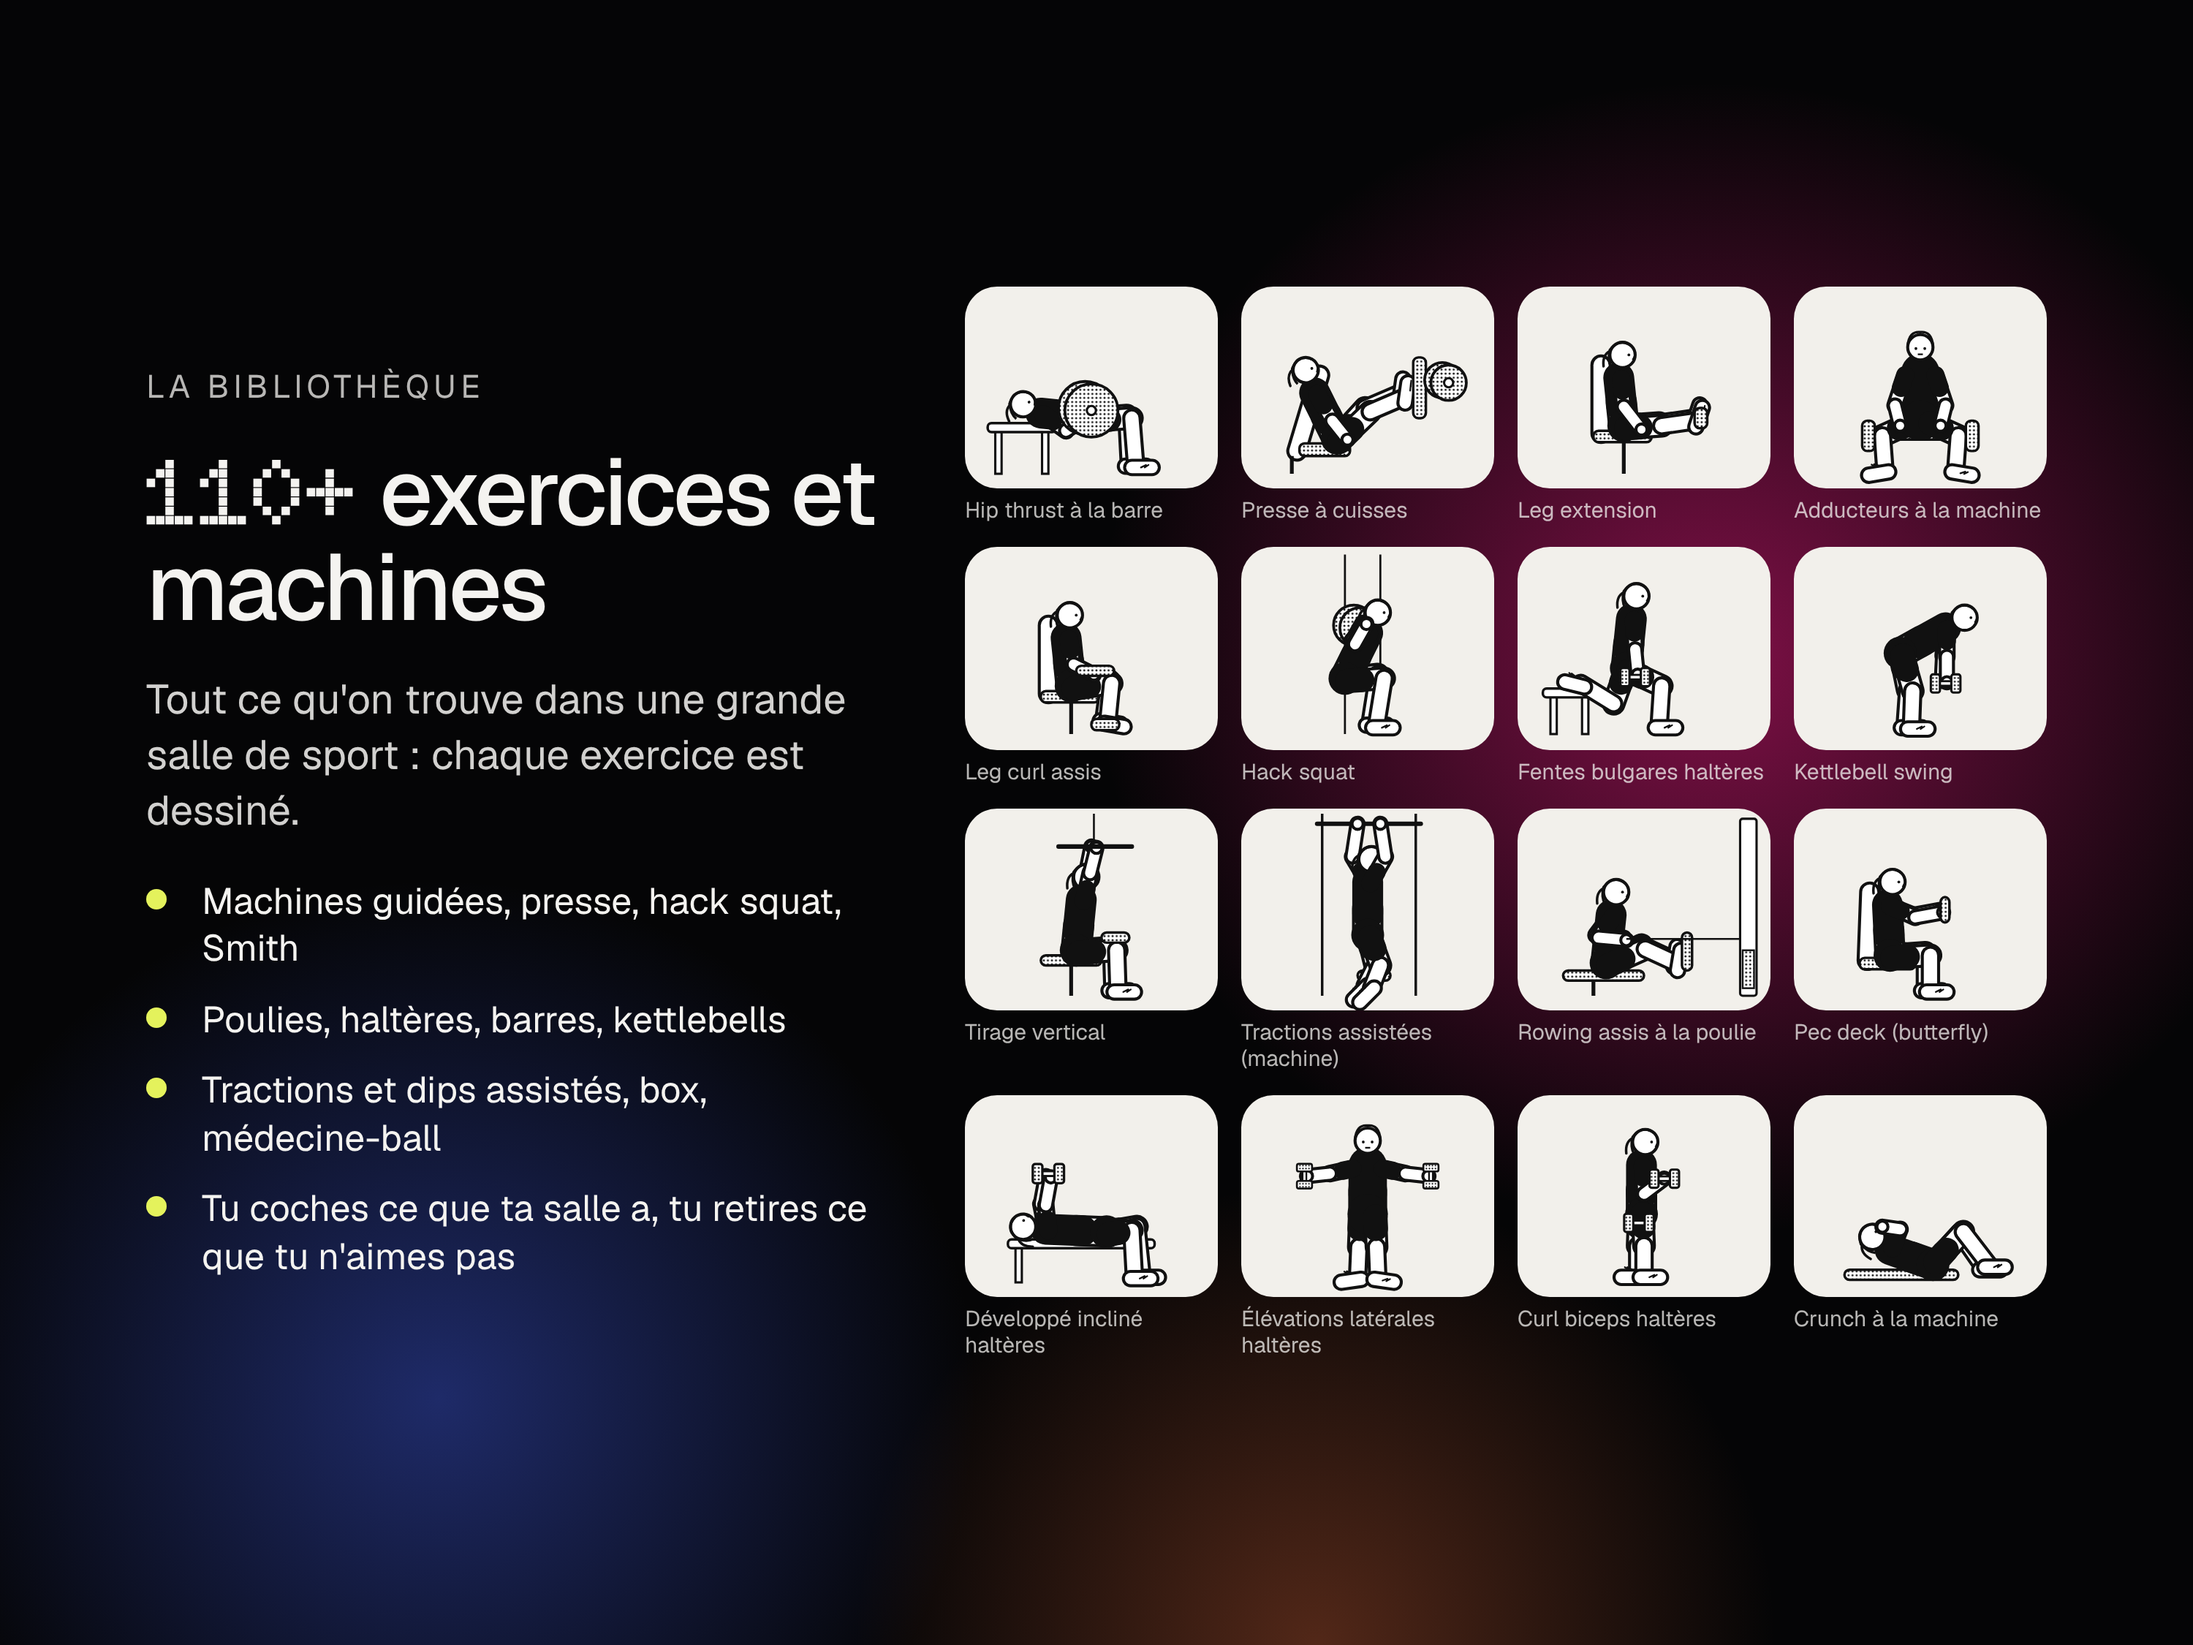
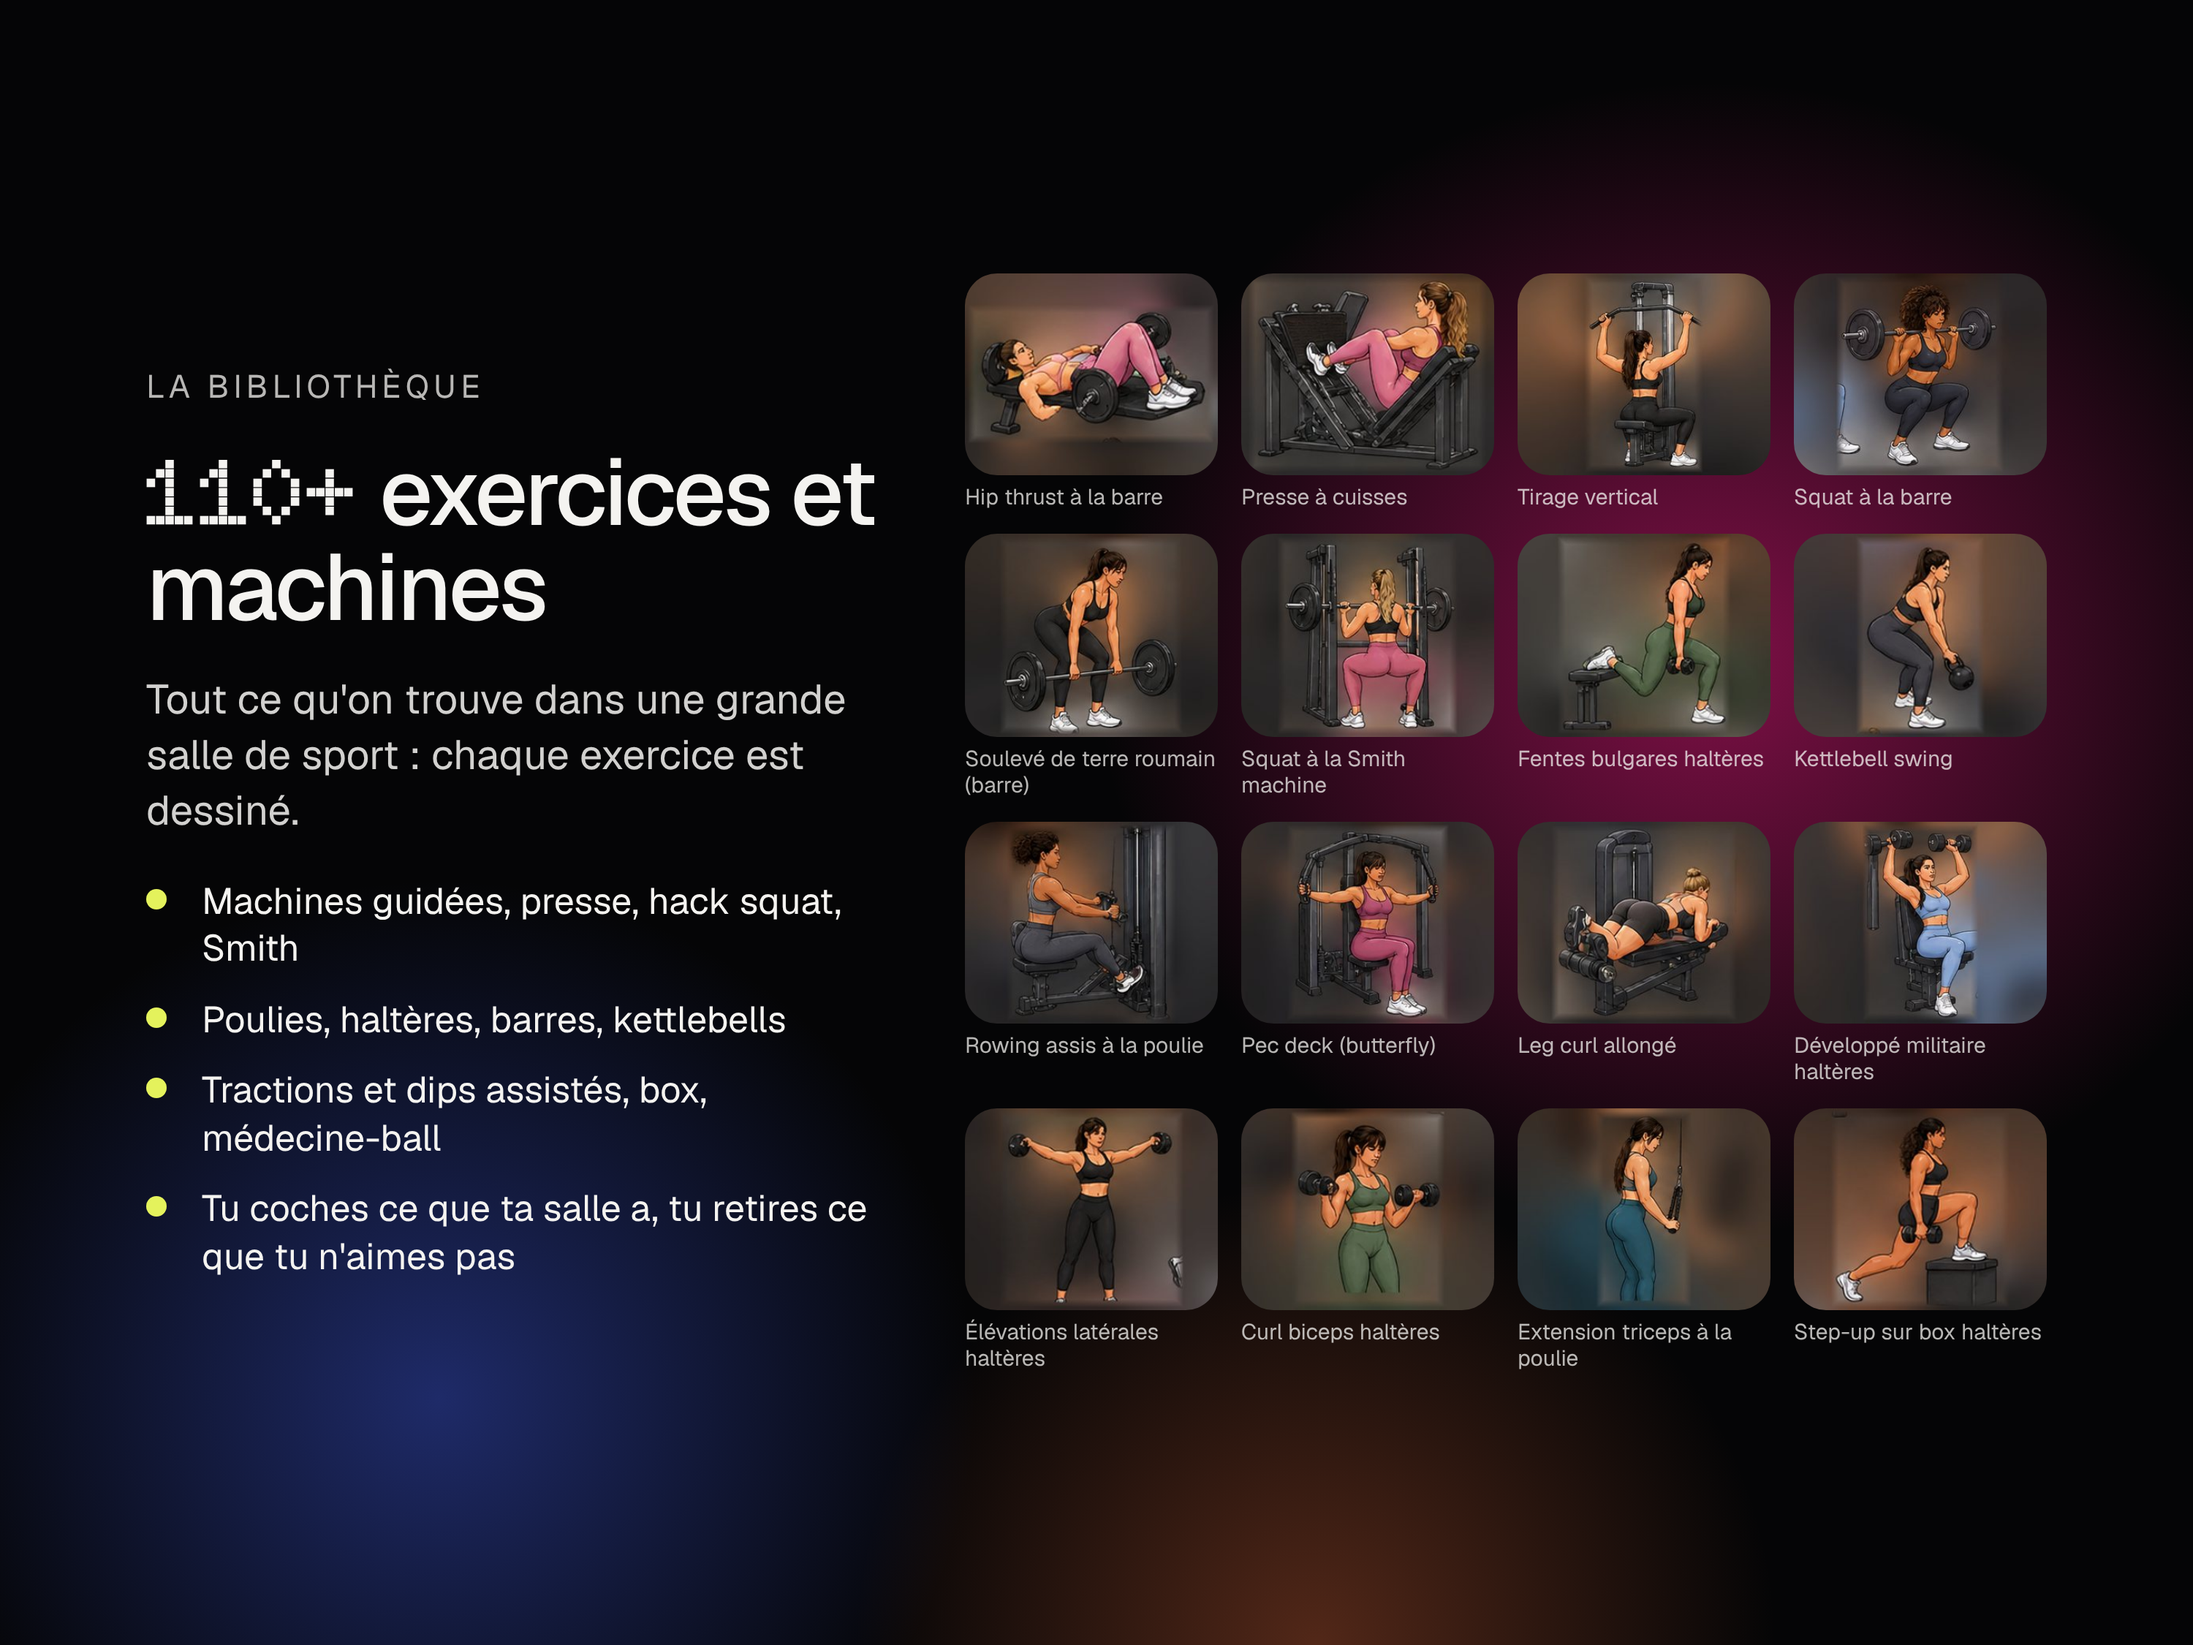
Phase Gym : dessins en couleur pour une cinquantaine d'exercices
40 illustrations découpées dans la planche fournie (docs/phase/ex/), reliées
aux versions d'exercices et au cardio correspondants ; les autres gardent le
dessin au trait. Images Etsy refaites, fiche mise à jour (illustrations IA).

Claude-Session: https://claude.ai/code/session_01Gm98Y9s8ifhqooa8DeYAiv

Changed region(s): [[0.434, 0.1556, 0.961, 0.84]]

diff --git a/docs/phase/app.js b/docs/phase/app.js
@@ -539,7 +539,26 @@ const POSES = {
     arms:[[[88,60],[80,80],[90,94]], [[112,60],[120,80],[110,94]]], front:band([84,124],[116,124])})
 };
 const illCache = {};
-function illustration(ill){
+/* Dessins en couleur (dossier ex/) pour les versions d'exercices qui en ont un ; les autres gardent le dessin au trait. */
+const SPRITES = {
+  "Tirage vertical":"tirage", "Tirage vertical à la machine guidée":"tirage2", "Tractions assistées (machine)":"traction",
+  "Presse à cuisses":"presse", "Presse à cuisses guidée (à charge sélective)":"presse", "Mollets à la presse":"presse",
+  "Rowing assis à la poulie":"rowmachine", "Rowing assis à la machine guidée":"rowmachine", "Rowing haltère un bras":"row1", "Rowing haltères buste penché":"rowbanc",
+  "Kickback à la poulie":"kickcable", "Kickback à la Smith machine (pied sur la barre)":"kickmachine", "Kickback au sol avec élastique":"kickfloor",
+  "Développé couché à la machine":"pecdeck", "Développé incliné à la machine":"pecdeck", "Pec deck (butterfly)":"fly",
+  "Leg curl allongé":"legcurl", "Développé militaire haltères":"ohpseat", "Développé Arnold haltères":"ohpseat",
+  "Squat à la barre":"squatbarre", "Squat à la Smith machine":"smithsquat", "Soulevé de terre roumain (barre)":"rdl",
+  "Fentes marchées haltères":"fente", "Fentes arrière haltères":"fente", "Fentes arrière kettlebell":"fente", "Fentes bulgares haltères":"bulgare",
+  "Extension triceps à la poulie":"triceps", "Pull-over à la poulie haute (bras tendus)":"pullover",
+  "Curl biceps haltères":"curl2", "Curl marteau haltères":"curl", "Élévations latérales haltères":"latraise", "Face pull à la poulie":"facepull",
+  "Planche sur les avant-bras":"planche", "Hip thrust à la barre":"hipthrust", "Kettlebell swing":"kbswing", "Swing haltère":"kbswing",
+  "Squat sumo kettlebell":"kbsumo", "Squat sumo haltère":"kbsumo", "Extension lombaire au banc à 45°":"lombaires", "Extension au banc à 45° avec disque":"lombaires",
+  "Step-up sur box haltères":"stepup", "Step-up sur box (poids du corps)":"stepup", "Dips entre deux bancs":"dipsbanc",
+  "Crunch au sol":"crunch", "Pompes (sur un banc si besoin)":"pompes", "Mountain climbers":"pompes", "Russian twist (médecine-ball)":"twist",
+  "Vélo droit":"velo", "Biking virtuel":"velo", "Rameur":"rameur", "Tapis de course":"tapis", "Tapis incliné (marche)":"tapis", "Battle ropes":"battle"
+};
+function illustration(ill, name){
+  if (name && SPRITES[name]) return `<img src="ex/${SPRITES[name]}.jpg" alt="" loading="lazy" decoding="async">`;
   if (!ill) return "";
   const key = ill.join("|"); if (illCache[key]) return illCache[key];
   const fn = POSES[ill[0]]; if (!fn) return "";
@@ -1064,7 +1083,7 @@ function viewToday(){
    On choisit ses exercices (bibliothèque, exos déjà faits, ou un nom libre), on note les séries, et la séance
    rejoint l'historique et la progression des charges, comme une séance proposée par l'app. Le brouillon est
    gardé dans S.logDraft : on peut quitter l'app au milieu et reprendre. */
-const CARDIO = ["Tapis de course","Tapis incliné (marche)","Vélo droit","Vélo semi-allongé","Rameur","Elliptique","Escalier (stair climber)","Ascent trainer","Corde à sauter","Biking virtuel","Cours collectif"];
+const CARDIO = ["Tapis de course","Tapis incliné (marche)","Vélo droit","Vélo semi-allongé","Rameur","Elliptique","Escalier (stair climber)","Ascent trainer","Corde à sauter","Battle ropes","Biking virtuel","Cours collectif"];
 const ZONE_FILTERS = [["all","Tout"],["mine","Mes exos"],["fessiers","Fessiers"],["jambes","Jambes"],["dos","Dos"],["pecs","Pectoraux"],["epaules","Épaules"],["bras","Bras"],["abdos","Abdos"],["cardio","Cardio"]];
 function variantInfo(name){
   for (const [id,L] of Object.entries(LIB)) { const v = L.v.find(x=>x.n===name); if (v) return {id, v, z:L.z, timed:!!L.timed}; }
@@ -1116,7 +1135,7 @@ function viewLog(){
     ${ci && !S.profile.hormonal ? `<div class="row">${phaseChip(ci,false)}</div>` : ""}</div>`;
   if (!d.items.length) h += `<div class="card"><p class="muted small">Ajoute les exercices que tu as faits : dans la liste de l'app, parmi ceux que tu fais d'habitude, ou avec un nom à toi. Pour chacun, note tes séries (charge et répétitions).</p></div>`;
   d.items.forEach((it,i)=>{
-    const img = it.ill ? illustration(it.ill) : "";
+    const img = illustration(it.ill, it.name);
     h += `<div class="card" style="gap:12px"><div class="ex-head ${img?"":"noimg"}" style="${img?"":"grid-template-columns:minmax(0,1fr)"}">${img?`<div class="ill">${img}</div>`:""}<div class="stack" style="gap:4px;min-width:0"><div class="name" style="font-weight:500">${esc(it.name)}</div>
       <div class="detail note">${it.cardio?"Cardio":it.timed?"Gainage : durée en secondes":it.w?"kg "+esc(loadLabel(it.eq)||"de charge"):"Poids du corps"}</div>
       <div class="row" style="gap:6px">${i>0?`<button class="linkbtn" data-act="log-up" data-v="${i}">Monter</button>`:""}<button class="linkbtn" data-act="log-del" data-v="${i}" style="color:#E5484D">Retirer</button></div></div></div>`;
@@ -1165,7 +1184,7 @@ function pickerResults(){
   let h = "";
   if (q) h += `<button class="pill block" data-act="log-add-custom"><span>Ajouter « ${esc(ui.logQ.trim())} »</span><span class="plus">${PLUS}</span></button>`;
   h += `<div class="card" style="padding:6px 20px">`;
-  h += list.length ? list.map(o=>{ const img = o.inf ? illustration(o.inf.v.ill) : "", has = inDraft.has(o.n);
+  h += list.length ? list.map(o=>{ const img = illustration(o.inf?.v.ill, o.n), has = inDraft.has(o.n);
       return `<button class="pickrow" data-act="log-add" data-v="${esc(o.n)}" data-kind="${o.kind||""}" ${has?'aria-pressed="true"':""}>${img?`<span class="ill sm">${img}</span>`:`<span class="ill sm noimg">${o.kind==="cardio"?"♥":"+"}</span>`}<span class="pk"><b>${esc(o.n)}</b><span>${esc(zl(o))}${has?" · déjà ajouté":""}</span></span><span class="plusc">${has?CHECK:PLUS}</span></button>`; }).join("")
     : `<p class="muted small" style="padding:14px 0">${f==="mine"?"Tu n'as pas encore d'exercice enregistré.":"Rien ne correspond."}</p>`;
   h += `</div>`;
@@ -1357,7 +1376,7 @@ function viewBuildPick(){
     <p class="small muted">Dans l'ordre où tu veux les faire. Pour ${b.dur} min, compte environ <b>${rec}</b> exercices (${nMus} choisi${nMus>1?"s":""}).</p>
     <div class="chips hscroll">${tabs.map(([kk,t])=>`<button class="chip" style="flex:none" data-act="b-filter" data-v="${kk}" aria-pressed="${f===kk}">${t}</button>`).join("")}</div>
     <div class="card" style="padding:6px 20px">`;
-  h += list.length ? list.map(o=>{ const i = sel.indexOf(o.n), img = o.inf ? illustration(o.inf.v.ill) : "";
+  h += list.length ? list.map(o=>{ const i = sel.indexOf(o.n), img = illustration(o.inf?.v.ill, o.n);
     return `<button class="pickrow" data-act="b-toggle" data-v="${esc(o.n)}" data-kind="${o.kind||""}" ${i>=0?'aria-pressed="true"':""}>${img?`<span class="ill sm">${img}</span>`:`<span class="ill sm noimg">${o.kind==="cardio"?"♥":"+"}</span>`}<span class="pk"><b>${esc(o.n)}</b><span>${o.kind==="cardio"?"Cardio":o.inf?esc(o.inf.z.map(z=>ZONES[z]).join(", ")):"Ton exercice"}</span></span><span class="plusc">${i>=0?`<b class="dotnum" style="font-size:.95rem">${i+1}</b>`:PLUS}</span></button>`; }).join("")
     : `<p class="muted small" style="padding:14px 0">Rien ici pour l'instant.</p>`;
   h += `</div><div class="row"><button class="ob" data-act="b-fill" ${nMus>=rec?"disabled":""}>🎲 Compléter au hasard</button>${sel.length?`<button class="linkbtn" data-act="b-clear">Tout enlever</button>`:""}</div>
@@ -1369,7 +1388,7 @@ function viewBuildRecap(){
   if (!b.items.length && b.mode==="random") b.items = rollItems(b);
   let nMain = 0;
   const rows = b.items.map((x,i)=>{
-    const inf = variantInfo(x.n), img = inf ? illustration(inf.v.ill) : "";
+    const inf = variantInfo(x.n), img = illustration(inf?.v.ill, x.n);
     let scheme;
     if (x.kind==="cardio") scheme = `<span class="row" style="gap:6px"><input type="number" inputmode="numeric" min="3" max="90" value="${x.min||10}" data-bmin="${i}" style="width:72px;padding:6px 8px;height:36px" aria-label="Minutes"> min</span>`;
     else if (inf?.timed) scheme = esc(TIMED_DETAIL[inf.id]);
@@ -1426,7 +1445,7 @@ function banBtn(k, it){
   return `<button class="linkbtn ban-btn" data-act="ban" data-v="${k}">Je n'aime pas cet exercice</button>`;
 }
 function exItem(k, it){
-  const lg = S.today.log[k]||{}, done = exDone(k, it), img = illustration(it.ill);
+  const lg = S.today.log[k]||{}, done = exDone(k, it), img = illustration(it.ill, it.name);
   const name = (it.prefix?`<span class="muted">${it.prefix} · </span>`:"")+esc(it.name)+(it.tagNew?'<span class="tag">Nouveau</span>':"")+(it.up?'<span class="tag">Charge en hausse</span>':"");
   let h = `<div class="ex ${done?"done":""}">`;
   const detail = it.sets && !it.timed ? `${it.sets} séries × ${it.lo}–${it.hi} reps${it.rest?` · repos ${fmtRest(it.rest)}`:""}${it.rpe?` · RPE ${it.rpe}`:""}` : esc(it.detail||"");

diff --git a/docs/phase/styles.css b/docs/phase/styles.css
@@ -301,3 +301,6 @@ nav.tabs button[aria-current="page"]{background:var(--sel-bg);color:var(--sel-fg
 .bacts{display:flex;gap:4px}
 .mini{width:34px;height:34px;border-radius:50%;border:1px solid var(--line2);background:transparent;display:grid;place-items:center;padding:0;font-size:.85rem;color:var(--fg)}
 .menu button > span:first-child{display:block;min-width:0}
+/* dessins en couleur */
+.ill img{display:block;width:100%;height:100%;object-fit:cover}
+.ill:has(img){background:#1b191b}

diff --git a/docs/phase/sw.js b/docs/phase/sw.js
@@ -1,5 +1,5 @@
 // Service worker de Phase Gym : l'app s'ouvre même sans réseau (au fond de la salle).
-const SHELL = "phase-gym-shell-v7";
+const SHELL = "phase-gym-shell-v8";
 const FONTS = "phase-gym-fonts-v1";
 const SHELL_FILES = ["./", "./index.html", "./styles.css", "./app.js", "./manifest.webmanifest", "./icons/icon.svg", "./icons/icon-192.png", "./icons/apple-touch-icon.png"];
 

diff --git a/vente/fiche-etsy.md b/vente/fiche-etsy.md
@@ -10,7 +10,7 @@ Tout ce qu'il faut copier-coller dans *Etsy › Gestionnaire de boutique › Ann
 | Qui l'a fait ? | **Moi** |
 | Qu'est-ce que c'est ? | **Un produit fini** |
 | Quand a-t-il été fabriqué ? | **2020 – 2026** |
-| Usage de l'IA | **Cocher** la case qui indique qu'une IA générative a été utilisée (le code de l'app a été écrit avec l'aide de Claude). Etsy retire les annonces non déclarées. |
+| Usage de l'IA | **Cocher** la case qui indique qu'une IA générative a été utilisée (le code de l'app a été écrit avec l'aide de Claude, et les illustrations en couleur des exercices ont été générées avec ChatGPT). Etsy retire les annonces non déclarées. |
 | Catégorie | Tape « planner » ou « agenda » et choisis la catégorie numérique proposée la plus proche (planners / agendas numériques). |
 | Fichier à joindre | `Phase-Gym-acces.pdf` (le PDF avec le lien et le code, envoyé à part, jamais dans le dépôt) |
 | Quantité | 999 (renouvellement automatique) |
